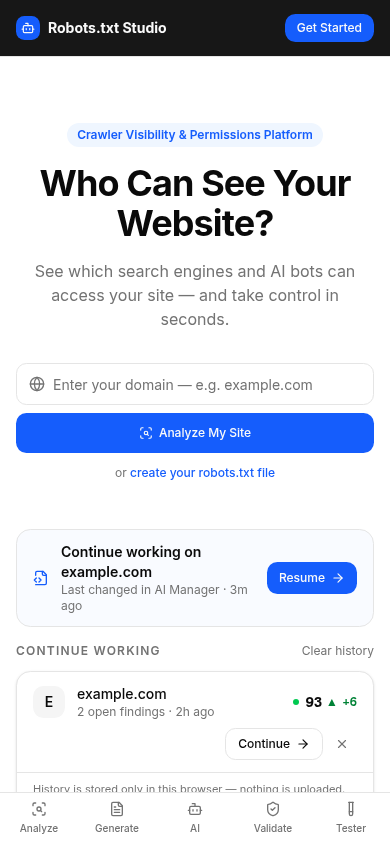
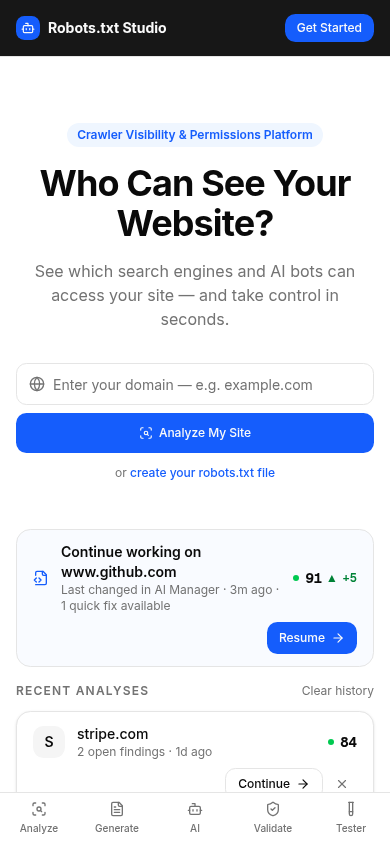
fix(home): one domain, one "Continue working" surface
The 17C archive section was also headed "Continue working", so a
single-domain user saw their domain twice — strip and row — with
Resume/Continue buttons that (post-17D) restore the identical state.

Now the strip owns the active file and absorbs its matching archive
entry (score, delta, fixes-available fold in; the duplicate row hides
until the workspace moves on or is discarded), and the archive is
honestly titled "Recent analyses". Different domains and untitled
workspaces still render both surfaces. e2e updated: resume goes
through the strip; dedupe + clear-history-first-run asserted.

diff --git a/src/components/continue-working.tsx b/src/components/continue-working.tsx
@@ -29,8 +29,10 @@ const BAND_DOT: Record<ScoreBand, string> = {
   poor: "bg-status-blocked-dot",
 };
 
-/** 17F.5 — the fastest path back into ACTIVE work (distinct from the archive). */
-function WorkspaceResume({ ws }: { ws: Workspace }) {
+/** 17F.5 — the fastest path back into ACTIVE work (distinct from the archive).
+ *  When the workspace matches an archive entry, that entry's score/delta fold in
+ *  here and its row is hidden below — one domain never renders twice. */
+function WorkspaceResume({ ws, entry }: { ws: Workspace; entry?: RecentAnalysis }) {
   return (
     <div
       className="flex flex-wrap items-center gap-x-3 gap-y-2 rounded-xl border border-brand/30 bg-brand-muted/40 px-4 py-3"
@@ -43,8 +45,23 @@ function WorkspaceResume({ ws }: { ws: Workspace }) {
         </p>
         <p className="text-xs text-muted-foreground">
           Last changed in {WORKSPACE_SOURCE_LABEL[ws.source]} · {relativeTime(ws.updatedAt)}
+          {entry && entry.safeFixCount > 0
+            ? ` · ${entry.safeFixCount} quick ${entry.safeFixCount === 1 ? "fix" : "fixes"} available`
+            : ""}
         </p>
       </div>
+      {entry ? (
+        <span className="flex shrink-0 items-center gap-1.5">
+          <span
+            className={cn("size-1.5 rounded-full", BAND_DOT[entry.visibility.band])}
+            aria-hidden
+          />
+          <span className="font-mono text-sm font-bold tabular-nums text-foreground">
+            {entry.visibility.value}
+          </span>
+          <Delta entry={entry} />
+        </span>
+      ) : null}
       <Link
         href={ws.domain ? `/analyze?domain=${encodeURIComponent(ws.domain)}` : "/validate"}
         className={cn(buttonVariants({ variant: "brand", size: "sm" }), "ml-auto shrink-0")}
@@ -90,13 +107,18 @@ export function ContinueWorking({ fallback }: { fallback: ReactNode }) {
 
   if (entries === null || (entries.length === 0 && ws === null)) return <>{fallback}</>;
 
+  // One domain never renders twice: the active workspace's archive entry folds
+  // into the resume strip; the list below holds everything else.
+  const wsEntry = ws?.domain ? entries.find((e) => e.domain === ws.domain) : undefined;
+  const archive = ws?.domain ? entries.filter((e) => e.domain !== ws.domain) : entries;
+
   return (
     <div className="space-y-4">
-      {ws ? <WorkspaceResume ws={ws} /> : null}
-      {entries.length === 0 ? null : (
+      {ws ? <WorkspaceResume ws={ws} entry={wsEntry} /> : null}
+      {archive.length === 0 ? null : (
         <div>
           <div className="mb-3 flex items-baseline justify-between gap-2">
-            <SectionHeader>Continue working</SectionHeader>
+            <SectionHeader>Recent analyses</SectionHeader>
             <button
               type="button"
               onClick={() => {
@@ -110,7 +132,7 @@ export function ContinueWorking({ fallback }: { fallback: ReactNode }) {
             </button>
           </div>
           <Card className="divide-y divide-border p-0" data-testid="continue-working">
-            {entries.map((e) => (
+            {archive.map((e) => (
               <div key={e.domain} className="flex flex-wrap items-center gap-x-3 gap-y-2 px-4 py-3">
                 <span
                   className="flex size-8 shrink-0 items-center justify-center rounded-lg bg-muted text-sm font-semibold uppercase text-foreground"

diff --git a/tests-e2e/continuity.spec.ts b/tests-e2e/continuity.spec.ts
@@ -16,14 +16,13 @@ test("homepage Continue restores the analysis without refetching", async ({ page
   await expect(page.getByTestId("score-current")).toBeVisible();
   expect(calls).toBe(1);
 
-  // The homepage now shows the dashboard instead of the locked teaser.
+  // The homepage now shows the resume strip instead of the locked teaser. The
+  // active domain renders ONCE: in the strip, not as a duplicate archive row.
   await page.goto("/");
-  const dash = page.getByTestId("continue-working");
-  await expect(dash.getByText("example.com")).toBeVisible();
-  await dash
-    .getByRole("link", { name: /Continue/ })
-    .first()
-    .click();
+  const strip = page.getByTestId("workspace-resume");
+  await expect(strip).toContainText("example.com");
+  await expect(page.getByTestId("continue-working")).toBeHidden();
+  await strip.getByRole("link", { name: /Resume/ }).click();
 
   // Full report restored from the local snapshot — zero network.
   await expect(page).toHaveURL(/\/analyze\?domain=example\.com/);
@@ -60,15 +59,27 @@ test("refresh and Back keep the workspace, including applied fixes", async ({ pa
   expect(calls).toBe(1);
 });
 
-test("clear history removes the archive but keeps the active workspace strip", async ({ page }) => {
+test("workspace folds its archive row into the strip; clear history restores first-run", async ({
+  page,
+}) => {
   await page.route("**/api/analyze", (route) => route.fulfill({ json: ANALYSIS_REPORT }));
   await page.goto("/analyze?domain=example.com&fresh=1");
   await expect(page.getByTestId("score-current")).toBeVisible();
 
+  // Active workspace matches the only archive entry → strip only, score folded in.
   await page.goto("/");
-  await expect(page.getByTestId("continue-working")).toBeVisible();
-  await page.getByRole("button", { name: "Clear history" }).click();
-  // History ≠ workspace (17F.5): the archive list goes, active work stays.
-  await expect(page.getByTestId("continue-working")).toBeHidden();
   await expect(page.getByTestId("workspace-resume")).toBeVisible();
+  await expect(page.getByTestId("continue-working")).toBeHidden();
+
+  // Without an active workspace the entry surfaces as a normal archive row.
+  await page.evaluate(() => localStorage.removeItem("rs:workspace:v1"));
+  await page.reload();
+  const dash = page.getByTestId("continue-working");
+  await expect(dash.getByText("example.com")).toBeVisible();
+  await expect(page.getByTestId("workspace-resume")).toBeHidden();
+
+  // Clear history → true first-run state (locked teaser returns).
+  await page.getByRole("button", { name: "Clear history" }).click();
+  await expect(dash).toBeHidden();
+  await expect(page.getByText("Unlock your full crawler report")).toBeVisible();
 });

diff --git a/docs/WORKSPACE.md b/docs/WORKSPACE.md
@@ -126,8 +126,11 @@ the crawler's group, scrolls the row into view, and marks it briefly;
 `/generate?focus=sitemap` lands focused on the sitemap field. **Homepage
 (17F.5):** when a workspace exists, `ContinueWorking` shows a resume strip
 ("Continue working on example.com · Last changed in AI Manager · 3m ago →
-Resume") above — and independent of — the recent-analyses archive; clearing
-history never touches the active workspace.
+Resume") above the recent-analyses archive (headed "Recent analyses"). One
+domain never renders twice: the active workspace's archive entry folds its
+score/delta/fixes-available into the strip and its row is hidden until the
+workspace moves on or is discarded. Clearing history never touches the active
+workspace.
 
 ## Context preservation
 
